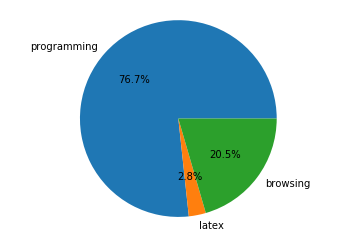
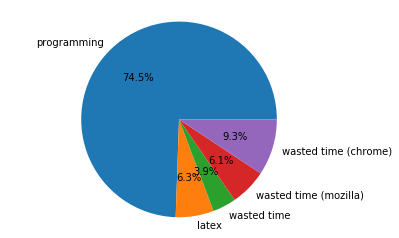
better data presentation

Changed region(s): [[0.0618, 0.0588, 0.9888, 0.9706], [0.309, 0.2941, 0.4326, 0.3529]]

diff --git a/analytics.py b/analytics.py
@@ -25,8 +25,9 @@ def main():
     total_dur = np.sum(df.duration)
     total_min = int(np.floor(total_dur / 60))
     total_sec = total_dur%60
-    print('{0:}:{1:02} min total'.format(total_min, total_sec))
-    print('')
+    print('-------------------------------------')
+    print('{0: 6}:{1:02} min total'.format(total_min, total_sec))
+    print('-------------------------------------')
 
     for u_cat in u_cats:
         temp = df.loc[df.category == u_cat]
@@ -36,6 +37,12 @@ def main():
         dur_sec = dur%60
         print('{0: 6}:{1:02} min  {2:} '.format(dur_min, dur_sec, u_cat))
 
+    sum_cat_time = total_dur - np.sum(u_dur)
+    sum_dur_min = int(np.floor(sum_cat_time/60))
+    sum_dur_sec = sum_cat_time%60
+    print('-------------------------------------')
+    print('{0: 6}:{1:02} min  not categorized '.format(sum_dur_min, sum_dur_sec))
+
     plt.figure()
     plt.pie(u_dur, labels=u_cats, autopct='%1.1f%%')
     plt.axis('equal')
@@ -44,7 +51,6 @@ def main():
 
 def get_unique_categories(string_cats):
     u_cats = []
-
     for string, cat in string_cats:
         if cat not in u_cats:
             u_cats.append(cat)
@@ -54,9 +60,12 @@ def get_unique_categories(string_cats):
 
 def get_cat(window):
     for string, category in string_cats:
-        if string in window:
-            return category
-            break
+        try:
+            if string in window:
+                return category
+                break
+        except TypeError:
+            pass
     return ''
 
 

diff --git a/script.py b/script.py
@@ -114,7 +114,8 @@ def is_keyboard_idle(sleep_duration):
     key_pressed = msvcrt.kbhit()
 
     if key_pressed:
-        msvcrt.getch() # reads the keys and resets kbhit()
+        keys = msvcrt.getch() # reads the keys and resets kbhit()
+        print(keys)
         last_time_key_pressed = time.time()
 
     if time.time() > last_time_key_pressed + idle_time:
